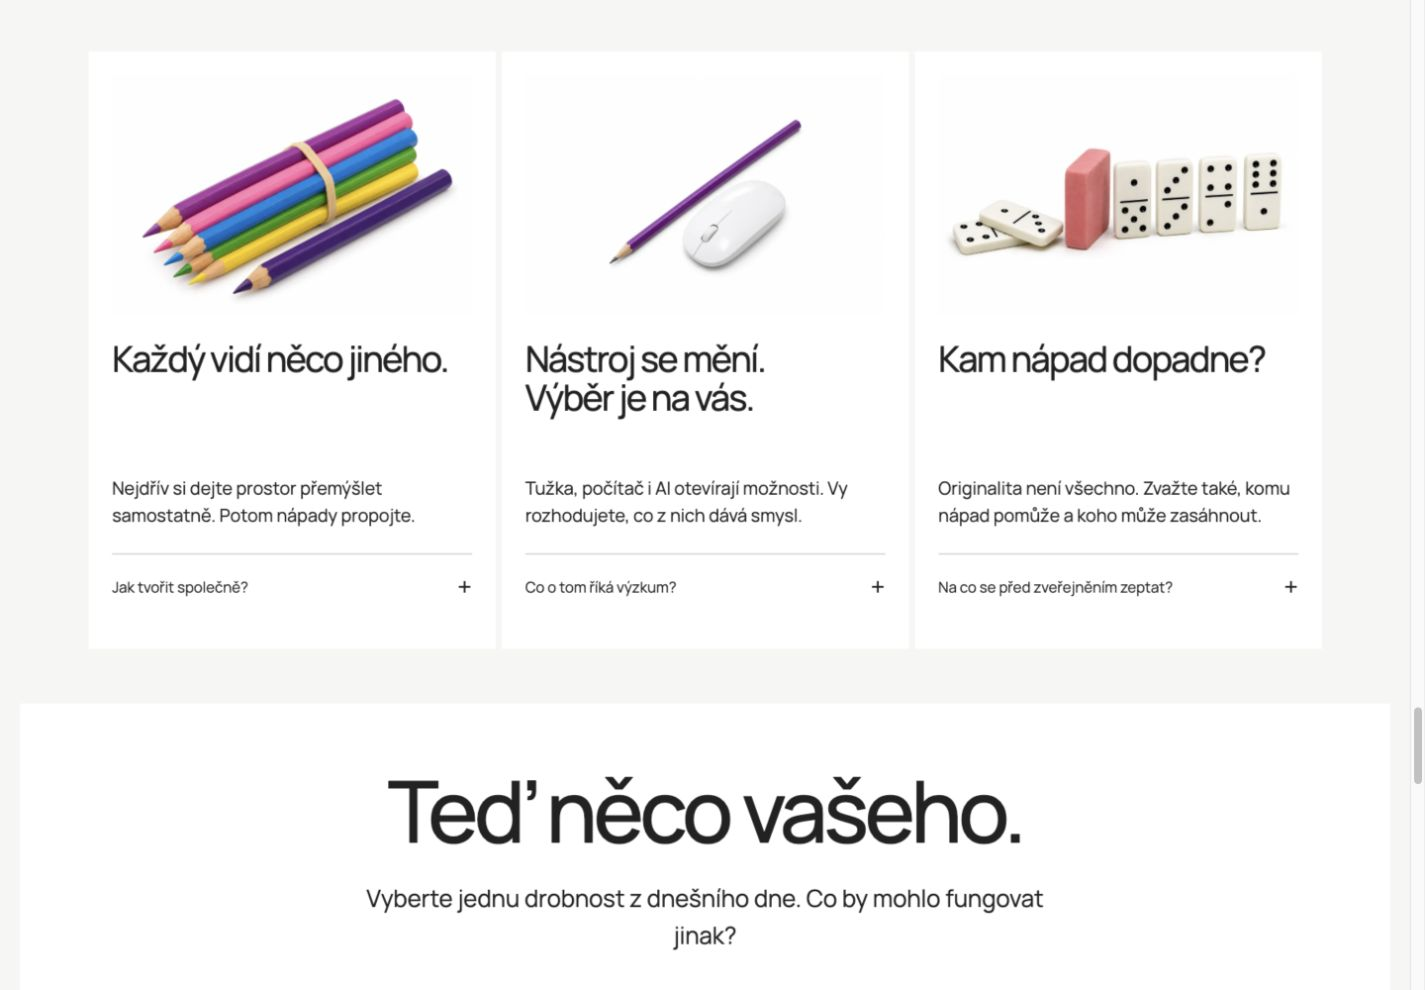
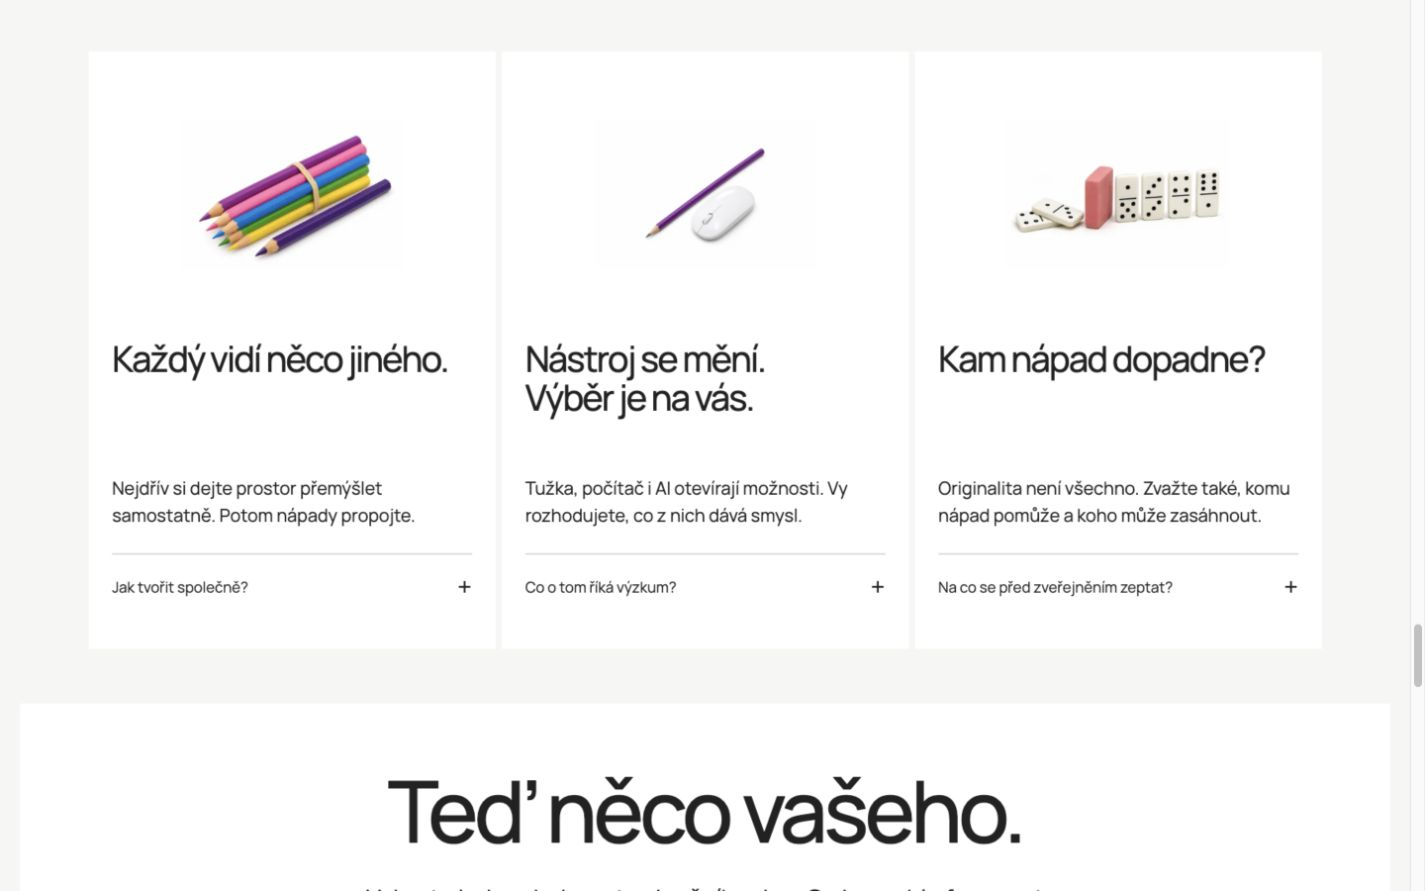
Ponechat jednu fotografii autora a zmensit obrazove karty

diff --git a/src/styles/author-photo-story.css b/src/styles/author-photo-story.css
@@ -1,16 +1,14 @@
 .author-photo-story{padding:75px 7% 65px}
-.author-spread{max-width:1350px;margin:auto}
-.author-story-copy{display:grid;grid-template-columns:1fr 1fr;gap:20px 10%;margin-bottom:45px;align-items:start}
-.author-story-name{font-size:19px;margin:0;letter-spacing:-.03em;grid-column:1/-1}
-.author-story-copy h2{grid-column:1;grid-row:2/4;font-size:clamp(47px,5.2vw,79px);font-weight:450;line-height:1.04;letter-spacing:-.07em;margin:0}.author-story-copy h2 em{font:italic 400 1.08em/.98 Georgia,serif;letter-spacing:-.06em}
-.author-story-copy>p:not(.author-story-name){grid-column:2;font-size:18px;line-height:1.8;letter-spacing:-.025em;max-width:440px;color:#666;margin:4px 0 0}
-.author-story-copy .home-text-link{grid-column:2;font-size:15px;gap:25px;justify-self:start;margin-top:0}
-.author-photo-pair{position:relative;display:grid;grid-template-columns:minmax(0,1fr) minmax(0,1fr);gap:8px}
-.author-photo-pair figure{margin:0;min-width:0;width:100%;height:clamp(360px,48vw,660px);overflow:hidden;background:#c4c2bf}
-.author-photo-pair img{width:100%;height:100%;display:block;object-fit:cover;filter:grayscale(1) contrast(1.04)}
-.author-candid img{object-position:50% 43%}.author-companion img{object-position:50% 0%}
+.author-spread{max-width:1350px;margin:auto;display:grid;grid-template-columns:minmax(0,1fr) minmax(0,1fr);gap:clamp(40px,7vw,110px);align-items:center}
+.author-story-copy{grid-column:2;grid-row:1;min-width:0}
+.author-story-name{font-size:19px;margin:0 0 24px;letter-spacing:-.03em}
+.author-story-copy h2{font-size:clamp(47px,5.2vw,79px);font-weight:450;line-height:1.04;letter-spacing:-.07em;margin:0 0 30px}.author-story-copy h2 em{font:italic 400 1.08em/.98 Georgia,serif;letter-spacing:-.06em}
+.author-story-copy>p:not(.author-story-name){font-size:18px;line-height:1.8;letter-spacing:-.025em;max-width:440px;color:#666;margin:0 0 25px}
+.author-story-copy .home-text-link{font-size:15px;gap:25px;margin-top:0}
+.author-photo-frame{position:relative;grid-column:1;grid-row:1;min-width:0}
+.author-photo-frame figure{margin:0;width:100%;overflow:hidden;background:#c4c2bf}
+.author-photo-frame img{width:100%;height:auto;display:block;filter:grayscale(1) contrast(1.04)}
 .author-photo-marks{position:absolute;inset:0;width:100%;height:100%;pointer-events:none;overflow:visible}
 .photo-pencil{stroke:#f7f5ee;stroke-width:3.2;fill:none;stroke-linecap:round;stroke-linejoin:round;vector-effect:non-scaling-stroke}
-.photo-ink{fill:#161717}
 html[data-home-mode=dark] .author-story-copy>p:not(.author-story-name){color:#b9b9b4}
-@media(max-width:700px){.author-photo-story{padding:45px 6% 35px}.author-story-copy{display:block;margin-bottom:30px}.author-story-name{font-size:18px;margin-bottom:20px}.author-story-copy h2{font-size:53px;margin-bottom:24px}.author-story-copy>p:not(.author-story-name){font-size:17px;margin-bottom:20px}.author-story-copy .home-text-link{font-size:15px}.author-photo-pair{gap:5px}.author-photo-pair figure{height:auto;aspect-ratio:3/4}.photo-pencil{stroke-width:1.8}}
+@media(max-width:700px){.author-photo-story{padding:45px 6% 35px}.author-spread{display:flex;flex-direction:column;align-items:stretch;gap:30px}.author-story-name{font-size:18px;margin-bottom:20px}.author-story-copy h2{font-size:53px;margin-bottom:24px}.author-story-copy>p:not(.author-story-name){font-size:17px;margin-bottom:20px}.author-story-copy .home-text-link{font-size:15px}.photo-pencil{stroke-width:1.8}}

diff --git a/src/styles/creativity-visual-guide.css b/src/styles/creativity-visual-guide.css
@@ -49,7 +49,8 @@
 .creativity-overview-page main > .visual-chapter-row { display: grid; grid-template-columns: repeat(3,minmax(0,1fr)); align-items: stretch; gap: var(--sheet-gap,6px); padding: 55px 5%; background: #f6f6f4; }
 .visual-card { min-width: 0; padding: 24px 24px 30px; background: #fff; }
 .visual-card .visual-stage { display: flex; flex-direction: column; align-items: stretch; gap: 24px; height: 100%; }
-.visual-card .visual-photo { width: 100%; }
+.visual-card .visual-photo { display: grid; place-items: center; align-self: center; width: 100%; aspect-ratio: 3/2; max-height: 280px; }
+.visual-card .visual-photo img { width: min(62%,320px); max-height: 100%; }
 .visual-card .visual-copy { display: flex; flex-direction: column; flex: 1; }
 .creativity-overview-page .visual-card h2 { min-height: 3.24em; font-size: clamp(28px,2.5vw,40px); line-height: 1.08; margin-bottom: 20px; text-align: left; }
 .creativity-overview-page .visual-card .visual-lead { font-size: 18px; max-width: none; margin-bottom: 24px; }

diff --git a/docs/DESIGN.md b/docs/DESIGN.md
@@ -695,3 +695,15 @@ Ověřeno 1440 a 390 px, naměřené velikosti ikon, žádný vodorovný přesah
 
 
 Autor následně přijal menší ikony cvičení („Super“) a výslovně zadal push na GitHub. Nahrání této úpravy do main i navazující automatické zveřejnění jsou autorizované; výše popsané kontroly platí pro stejné zdroje.
+
+
+## Jedna fotografie autora a menší obrazové karty — 8. 11. 2026
+
+Autor výslovně odstranil pravý ateliérový portrét z dvojice na homepage. Tento pokyn nahrazuje dřívější požadavek dvou rovnocenných fotografií. V AuthorPhotoStory.astro zůstává pouze původní retušovaná momentka u pracovního stolu, černobílá přes CSS, v celém původním poměru 4:5. Na desktopu je vlevo a text představení vpravo; do 700 px text nad fotografií. Odstraněna pravá kruhová kresba a černý flek přes zaniklý spoj, levý bílý tah zachovaný. Zdroj odstraněného portrétu a původní originály zůstávají archivně. Text, kotva #o-mne a CTA na #co-delam zachované. Ověřena jedna načtená fotografie, desktop 1440 px, mobil 390 px bez přesahu a proklik CTA.
+
+Další pokyn se vztahuje konkrétně na trojici fotografických karet Tvoření s druhými / Technologie a AI / Nápad a odpovědnost v obecném průvodci. Fotografie nyní zabírají 62 % šířky svého obrazového prostoru, nejvýše 320 px; jsou centrované vodorovně i svisle. Stejný prostor poměru 3:2 s maximální výškou 280 px ponechává bílé okolí jako na úvodních dlaždicích a drží nadpisy ve stejné výšce. Tři fotografie i texty zůstávají, mění se pouze jejich velikost v kartách. Responzivní sizes odpovídá menším obrázkům, ostatní fotografie průvodce se nemění.
+
+Ověřeno 2400/1440/800/390 px bez vodorovného přesahu, tři shodné obrazové prostory a zarovnané nadpisy na desktopu, rozbalení a sbalení textu Enterem na mobilu. Konzole bez chyb/varování. Produkční npm run build pro obě navazující změny prošel: 103 souborů bez chyb/varování/upozornění, 81 HTML a 2608 místních URL s /marek-stojka-web/. Kontrolní kopie i náhled na 4321 mají stejné zdroje. Aktualizované snímky v README. Změny jsou lokální po již zveřejněném commitu ad72c9c; nový push zatím nebyl zadaný.
+
+
+Autor nově výslovně zadal průběžné odesílání všech hotových úprav rovnou na GitHub. Po relevantní kontrole a úspěšném produkčním buildu již nečekat na samostatný pokyn k pushi do existujícího main; automatické zveřejnění je součástí autorizace. Tento pokyn zahrnuje také právě dokončené odstranění druhého portrétu a zmenšení fotografií v trojici karet. Preference je zapsaná i v AGENTS.md.

diff --git a/README.md b/README.md
@@ -444,3 +444,12 @@ Autor následně přijal tuto vizuální revizi a zadal nahrání na GitHub; pus
 Kreativní cvičení — menší ikony (8. 11. 2026): symboly jednotlivých cvičení jsou přibližně poloviční (55 px desktop / 48 px mobil), úvodních šest dlaždic má původní velké ikony (90 / 70 px). Klikací plocha, texty a struktura se nemění. [Místní náhled](http://127.0.0.1:4321/kreativec/magazin/cviceni#rychlovky), [desktop](docs/nahled-cviceni-mensi-ikony.jpg), [mobil](docs/nahled-cviceni-rychlovky-mobile.jpg). Ověřen desktop 1440 px, mobil 390 px, rozbalení klávesnicí, proklik do detailu a návrat. Produkční build bez chyb: 103 souborů, 81 HTML a 2611 místních URL. Lokální revize po commitu 3207bd2.
 
 Autor následně přijal menší ikony cvičení a výslovně zadal nahrání této revize na GitHub včetně navazujícího automatického zveřejnění.
+
+
+### Jedna fotografie autora a menší obrazové karty — 8. 11. 2026
+
+V [představení na homepage](http://127.0.0.1:4321/#o-mne) zůstává jen momentka u pracovního stolu. Pravý ateliérový portrét je odstraněný ze sekce, zdroj zůstává archivně. Na desktopu je fotografie vedle textu, na mobilu pod ním. [Aktuální představení](docs/nahled-autor.jpg), [mobil](docs/nahled-autor-jedna-fotografie-mobile.jpg).
+
+[Tři fotografické karty průvodce](http://127.0.0.1:4321/kreativec/magazin/obecne#spolecne) mají menší centrované obrázky s bílým okolím: 62 % obrazového prostoru, maximálně 320 px. Nadpisy jsou stále zarovnané. [Desktop](docs/nahled-kreativita-tri-fotografie.jpg), [mobil](docs/nahled-kreativita-tri-fotografie-mobile.jpg). Ověřena navigace, rozbalení klávesnicí a šířky 2400/1440/800/390 px. Produkční build bez chyb: 103 souborů, 81 HTML, 2608 místních URL. Lokální změny po commitu ad72c9c.
+
+Autor 8. 11. 2026 výslovně zadal hotové úpravy po kontrole posílat rovnou na GitHub, bez dalšího samostatného potvrzení. Platí i pro jednu fotografii autora a menší obrazové karty výše. Po pushi se kontroluje automatické sestavení a zveřejnění.

diff --git a/AGENTS.md b/AGENTS.md
@@ -248,3 +248,8 @@ PaperTransition.astro přidává vstup přes celou dlaždici Jsem kreativec v ob
 
 - Poslední revize 5. 11. 2026: 8 bílých stejně velkých dlaždic kreativity (nově Nástroje a inspirace / inspirace), desktop 4+4, tablet 2, mobil 1. Fotografie zvětšené. Jen navazující sekce nově smějí střídat pastelové podklady (levandulová/růžová), medailonek bílý. Animované BrushIcon přes icon-motion-trigger se stejnými pohyby jako homepage. Kruhový experiment odpojen ze všech aktivních článkových/rubrikových pozvánek, prototyp archivně zachovat.
 - Kontakt a patičku sdílí všechny veřejné stránky přes SiteFooter v BaseLayout. Jeden e-mail/telefon, černá plocha; Moje světy jen mimo homepage. Nevkládat další globální patičky do jednotlivých stránek. Homepage témata zůstávají, její původní černý kontaktní blok nahrazen odkazem na společnou patičku. Předmět mailto dál mění ContactSection přes data-shared-contact-email. Zachovat unikátní kontakt/kontaktni-udaje/spojme-se kotvy.
+
+
+## Průběžné odesílání na GitHub — aktuální pokyn 8. 11. 2026
+
+Autor výslovně zadal „úpravy házej rovnou na git“. Hotové úpravy zadané autorem po relevantní kontrole a úspěšném npm run build rovnou commitnout a pushnout do stávajícího repozitáře MarekStojka/marek-stojka-web, větev main. Nečekat na další samostatný pokyn k pushi. Autorizace zahrnuje navazující automatické zveřejnění; ověřit Check and build a Publish website. Starší požadavky čekat na potvrzení před odesláním změn tohoto existujícího webu jsou tím překonané.

diff --git a/docs/AUTHOR-PHOTO-PAIR.md b/docs/AUTHOR-PHOTO-PAIR.md
@@ -2,7 +2,7 @@
 
 Reálné fotografie dodané Markem. Obě upravené vestavěným ImageGen (identity-preserve), nikoli nová osoba či nová póza. Originály zachovány v src/assets/portraits/original/. Nové soubory: src/assets/portraits/marek-momentka-v1.png a src/assets/portraits/marek-portret-par-v1.png. Světlo, vyvážení barev, ořez, úklid rušivého pozadí; portrét má nově černé tričko. Výstupy posouzené vizuálně. Jde o AI retuše původních fotografií, nikoli neupravené originály.
 
-Na webu se oba snímky zobrazují stejně velké, černobíle pomocí CSS. Štětcové tahy jsou samostatné vlastní SVG překryvy, nikoli součást zdrojových fotografií. Tváře zůstávají volné. Dřívější skládačka ani malý nakloněný portrét se nevracejí.
+Původní návrh zobrazoval oba snímky stejně velké, černobíle pomocí CSS. Na výslovný pokyn autora z 8. 11. 2026 je v představení na homepage pouze momentka u stolu; doprovodný portrét zůstává archivní. Na desktopu je momentka vedle textu, na mobilu pod ním. Štětcové tahy jsou samostatné vlastní SVG překryvy, nikoli součást zdrojových fotografií. Tváře zůstávají volné. Dřívější skládačka ani malý nakloněný portrét se nevracejí.
 
 ## Prompt — momentka
 
